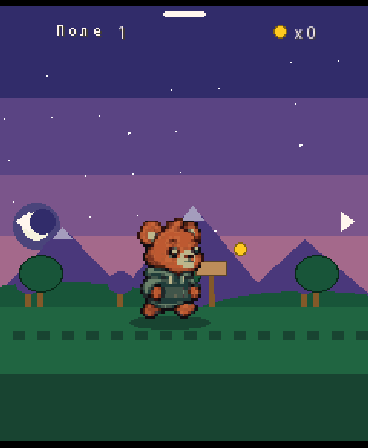
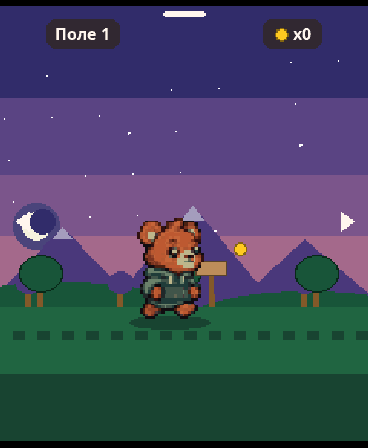
docs: refresh gallery with sharp native Cyrillic gameplay text

Changed region(s): [[0.1196, 0.0312, 0.3587, 0.125], [0.7174, 0.0312, 0.8967, 0.125]]

diff --git a/README.md b/README.md
@@ -36,7 +36,7 @@
 
 В русской версии переведены игровое меню, выбор питомца, настройки часов и звука, подсказки и реплики. Три режима: **«Забота»** — кормить, лечить и играть; **«Сам»** — питомец сам решает, чем заняться; **«Гуляшки»** — бегать, прыгать и собирать монеты.
 
-На **AMOLED V1** меню настроек рисуется в родном разрешении пропорциональным **Noto Sans Bold** без засечек: буквы держат общую базовую линию, края сглажены, а цифры одинаковой ширины, чтобы часы не «прыгали». Глифы хранятся в компактном растровом виде, TTF на устройство не нужен. На **IPS** для кириллицы используется компактный растровый шрифт на основе **DejaVu Sans Mono**. [Шрифт AMOLED и лицензия OFL](https://github.com/Medvedolog/medvegoshi/blob/feature/russian-game-ui/ports/v1_menu_font.py) · [Лицензия шрифта IPS](https://github.com/Medvedolog/medvegoshi/blob/feature/russian-game-ui/docs/FONT_LICENSE.md).
+На **AMOLED V1** меню, диалоги и метки игрового экрана рисуются в родном разрешении пропорциональным **Noto Sans Bold** без засечек: буквы держат общую базовую линию, края сглажены, а цифры одинаковой ширины, чтобы часы не «прыгали». Глифы хранятся в компактном растровом виде, TTF на устройство не нужен. На **IPS** для кириллицы используется компактный растровый шрифт на основе **DejaVu Sans Mono**. [Шрифт AMOLED и лицензия OFL](https://github.com/Medvedolog/medvegoshi/blob/feature/russian-game-ui/ports/v1_menu_font.py) · [Лицензия шрифта IPS](https://github.com/Medvedolog/medvegoshi/blob/feature/russian-game-ui/docs/FONT_LICENSE.md).
 
 ### 13 питомцев
 

diff --git a/docs/SCREENSHOTS_RU.md b/docs/SCREENSHOTS_RU.md
@@ -2,7 +2,7 @@
 
 [← На главную](../README.md) · [Бйорни крупным планом](#бйорни-крупным-планом)
 
-Все кадры сняты в эмуляторе **AMOLED V1, 368×448** из русской сборки [PR #2](https://github.com/Medvedolog/medvegoshi/pull/2). Слева игровой момент, справа тот же питомец в меню «Настройки». Подписи поясняют сцену; реплики в кавычках взяты с экрана. Нажми на кадр, чтобы увеличить.
+Все кадры сняты в эмуляторе **AMOLED V1, 368×448** из русской сборки [PR #2](https://github.com/Medvedolog/medvegoshi/pull/2). Реплики, часы и метки полей набраны пропорциональным Noto Sans Bold в родном разрешении, как и меню. Слева игровой момент, справа тот же питомец в меню «Настройки». Подписи поясняют сцену; реплики в кавычках взяты с экрана. Нажми на кадр, чтобы увеличить.
 
 | Питомец и сцена | В игре | В настройках |
 |---|:---:|:---:|
